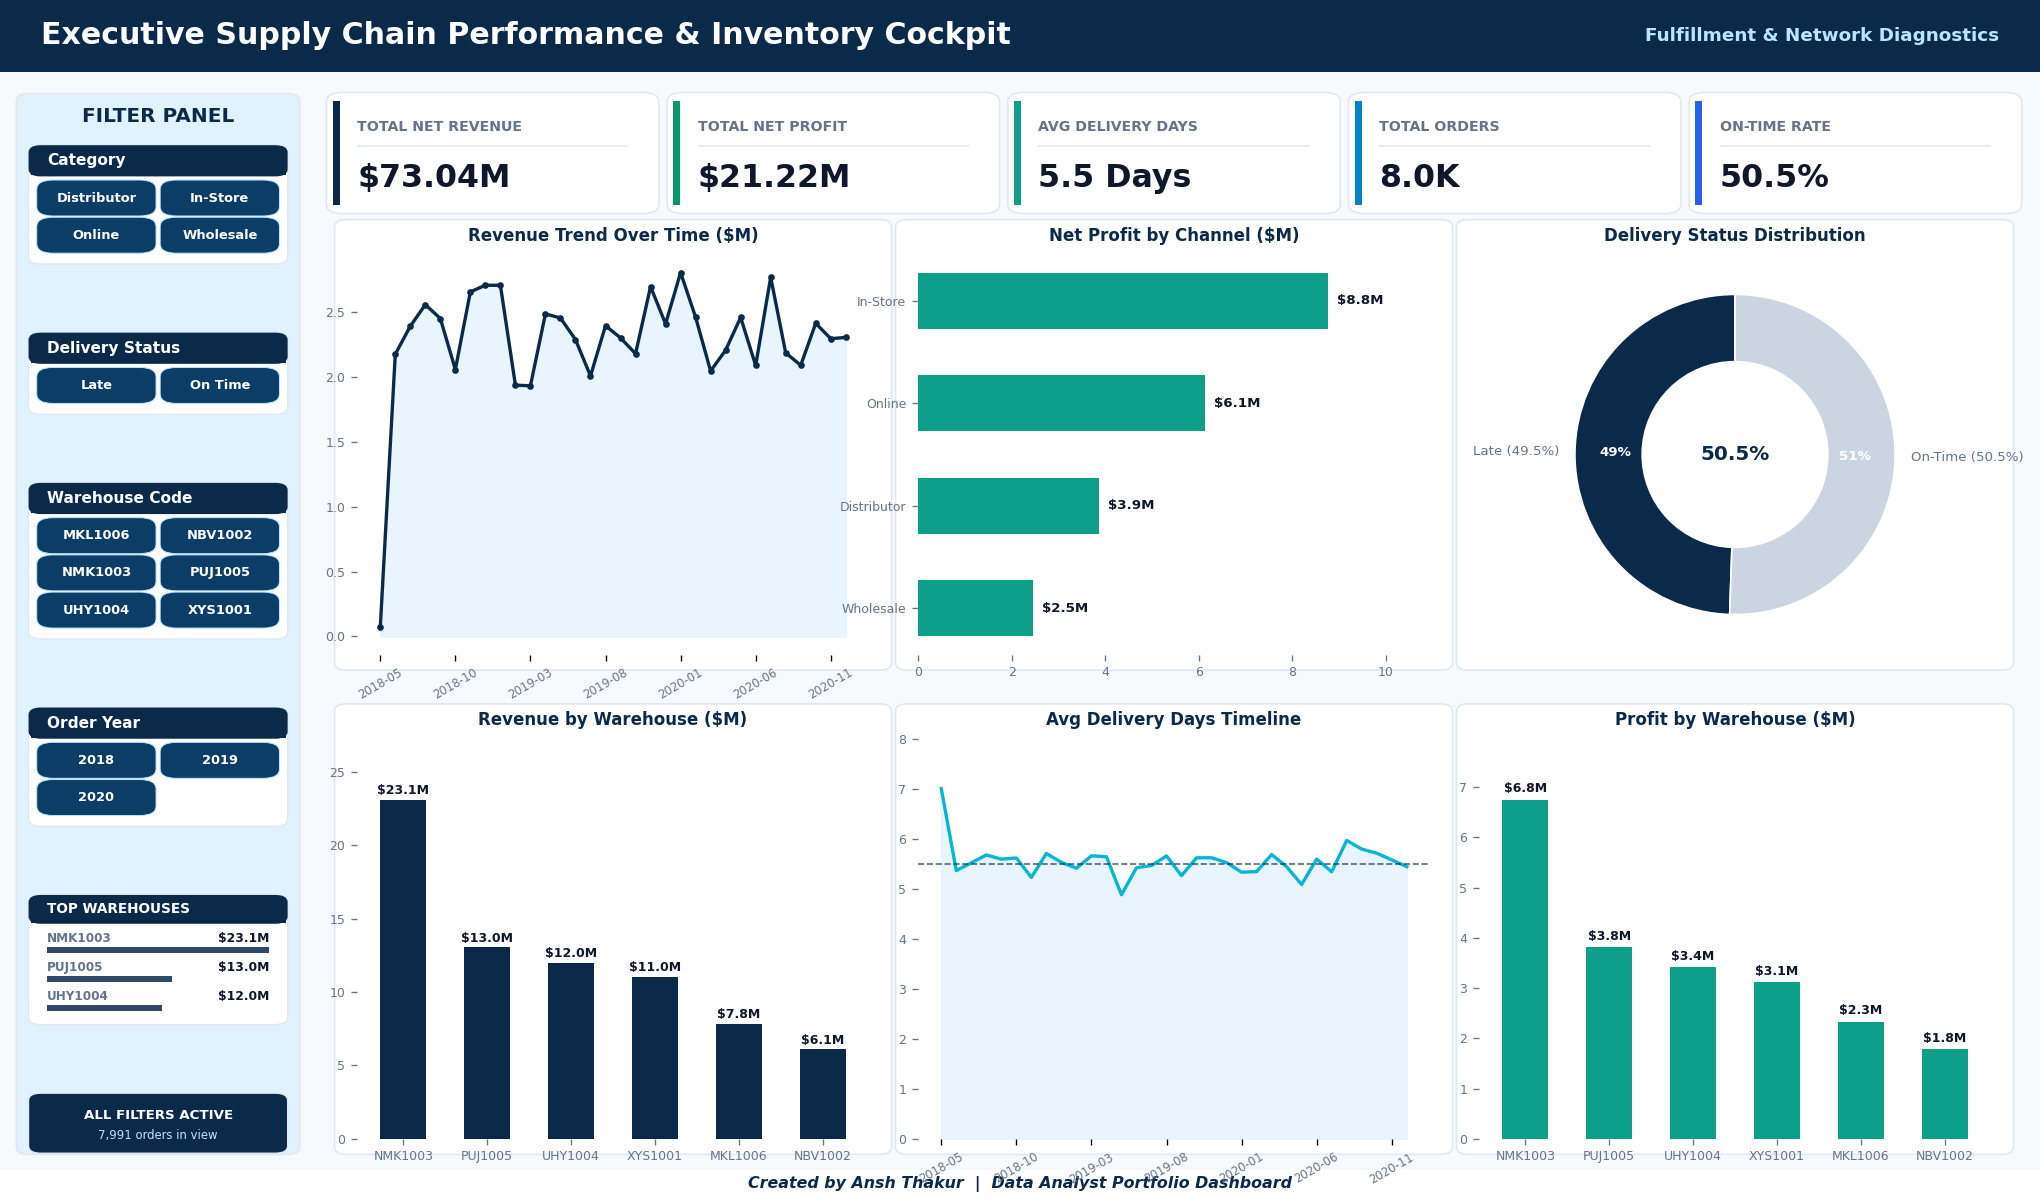
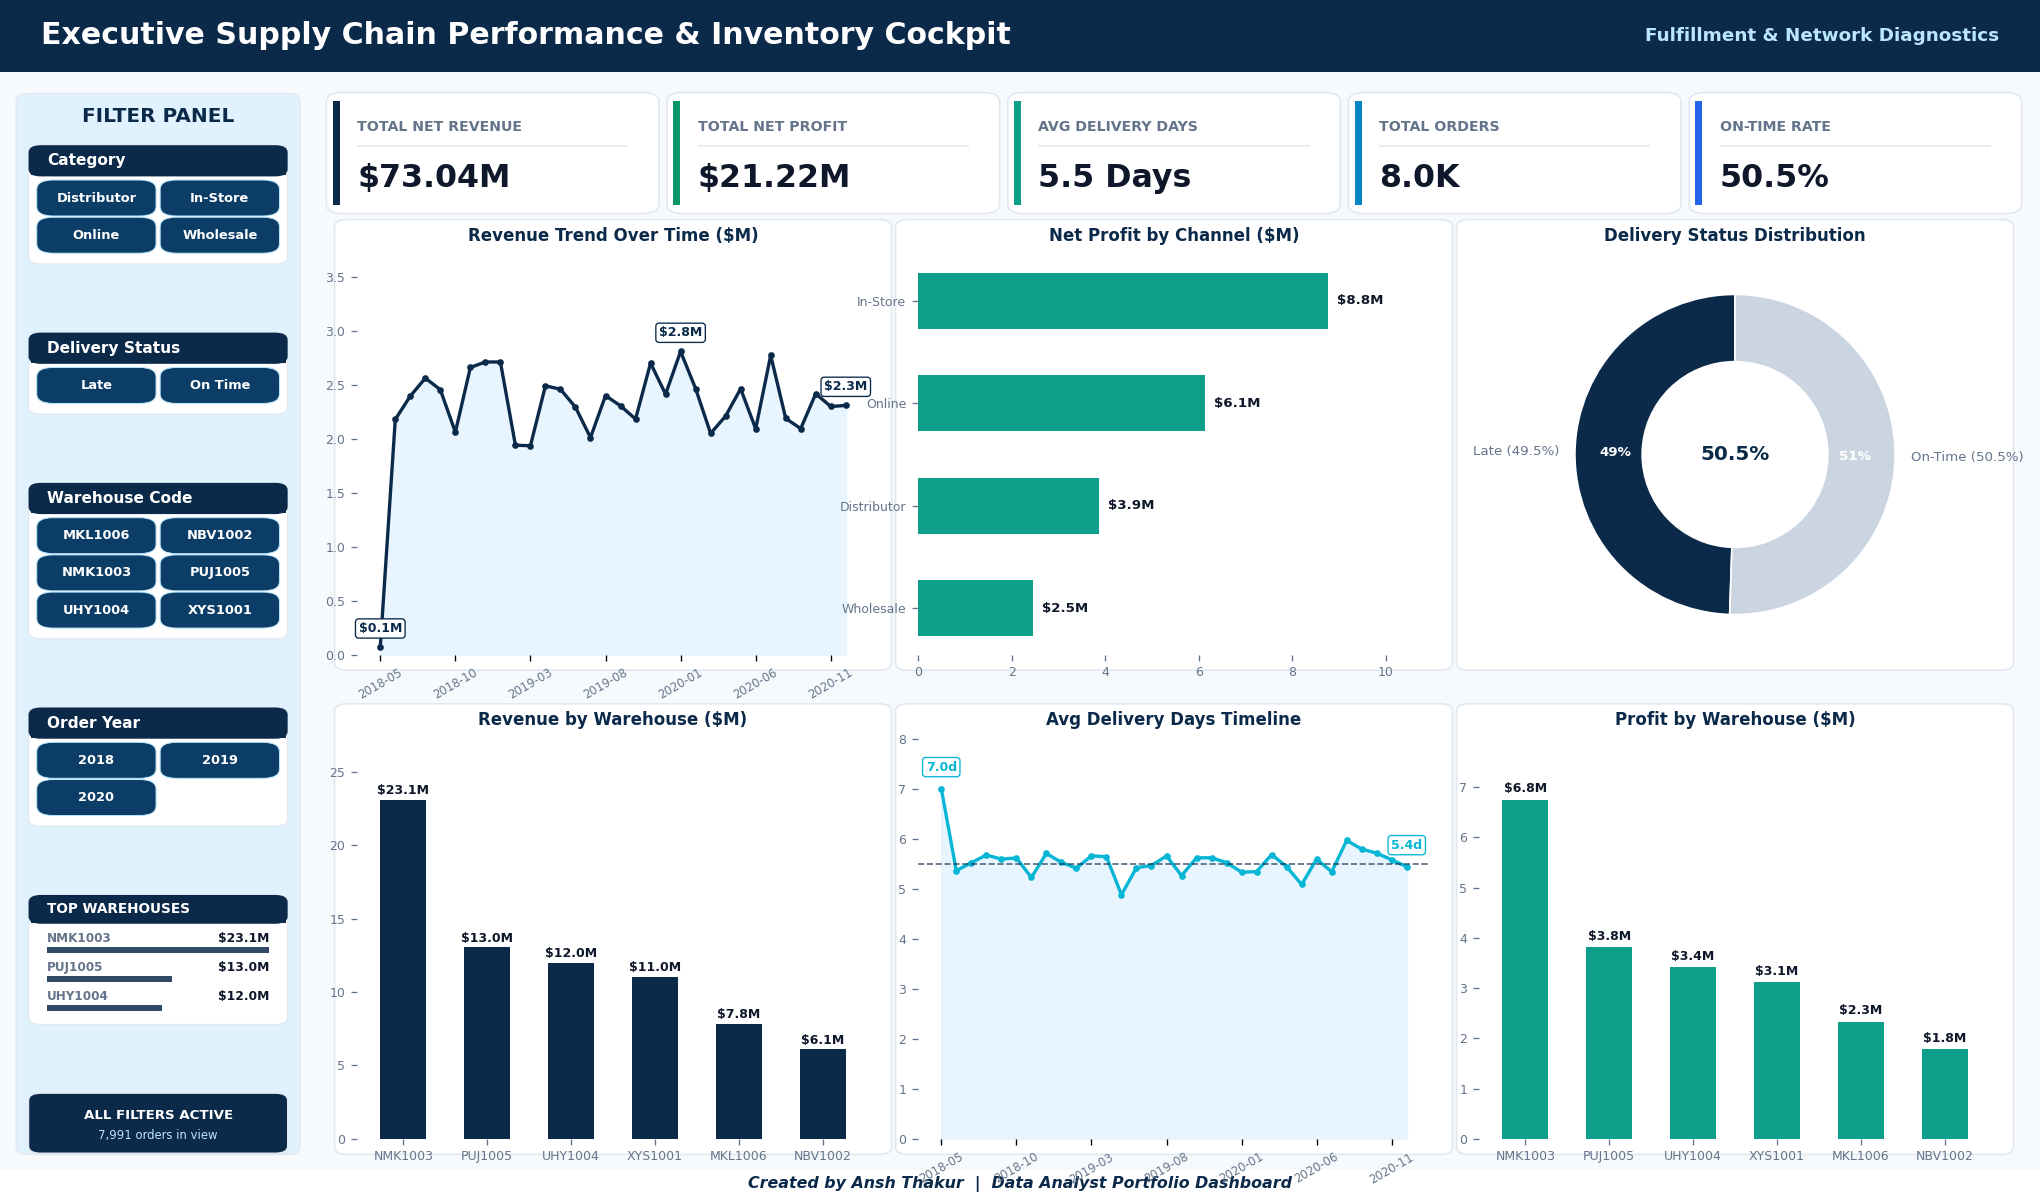
feat: boxed measurement callouts on all line charts, compact insights panel

Changed region(s): [[0.1853, 0.2158, 0.4324, 0.4317], [0.1544, 0.4933, 0.2162, 0.555], [0.6794, 0.6783, 0.7103, 0.7092]]

diff --git a/subscription-retention-analytics/src/render_dashboard_screenshot.py b/subscription-retention-analytics/src/render_dashboard_screenshot.py
@@ -68,6 +68,14 @@ def _fit_font(text, chip_w, base, fig_w_in=17.0, dpi_pts=72.0):
     return base if est_pt <= usable_pt else max(5.0, base * usable_pt / est_pt)
 
 
+def _boxed_note(cax, x, y, s, color, fontsize=7.5):
+    """Measurement callout: white box with colored edge so line-chart values
+    read as clearly as the bar labels."""
+    cax.text(x, y, s, ha="center", va="bottom", fontsize=fontsize, weight="bold",
+             color=color, bbox=dict(boxstyle="round,pad=0.25", facecolor="#FFFFFF",
+                                    edgecolor=color, linewidth=0.8))
+
+
 def _chip(ax, x, y, w, h, text, edge="#FECDD3", bg=None, base=7.6):
     ax.add_patch(FancyBboxPatch((x, y), w, h,
                                 boxstyle="round,pad=0.001,rounding_size=0.008",
@@ -262,7 +270,7 @@ def main() -> None:
     ]
     grid_x0 = kpi_x0
     grid_x1 = 1 - 0.012
-    grid_y0 = 0.36
+    grid_y0 = 0.309
     grid_y1 = 0.81
     row_gap = 0.030
     cell_w = (grid_x1 - grid_x0) / 3
@@ -346,24 +354,35 @@ def main() -> None:
         elif key == "tenure_trend":
             t = df.groupby("tenure")["ChurnFlag"].mean().mul(100)
             t = t.iloc[::3]
-            cax.plot(t.index, t.values, color=CRIMSON_MAIN, linewidth=2.2)
-            cax.fill_between(t.index, t.values, color=ROSE_LIGHT, alpha=0.7)
+            xs = t.index.values
+            ys = t.values
+            cax.plot(xs, ys, color=CRIMSON_MAIN, marker="o", markersize=3, linewidth=2.2)
+            cax.fill_between(xs, ys, color=ROSE_LIGHT, alpha=0.7)
+            cax.set_ylim(0, ys.max() * 1.28)
             cax.tick_params(axis="x", labelsize=7, colors=TEXT_MUTED)
             cax.tick_params(axis="y", labelsize=8, colors=TEXT_MUTED)
+            # measurement callouts: first month, lowest month, latest month
+            seen = set()
+            for xi, yv in ((xs[0], ys[0]), (xs[int(ys.argmin())], ys.min()), (xs[-1], ys[-1])):
+                if xi in seen:
+                    continue
+                seen.add(xi)
+                _boxed_note(cax, xi, yv + ys.max() * 0.04, f"{yv:.1f}%", CRIMSON_MAIN)
 
-    # 5. Key Findings panel (Modern white card with crimson header strip)
-    findings_top = 0.335
+    # 5. Key Findings panel (compact: smaller type + tighter leading so the
+    # charts above get the space; bottom edge stays level with the sidebar)
+    findings_top = 0.284
     # bottom edge matches the filter sidebar bottom (panel_bottom_y) for a level look
     findings_h = findings_top - panel_bottom_y
     ax.add_patch(FancyBboxPatch((kpi_x0, findings_top - findings_h), grid_x1 - kpi_x0, findings_h,
                                 boxstyle="round,pad=0.002,rounding_size=0.006",
                                 linewidth=1.0, edgecolor=BORDER_COLOR, facecolor=CARD_BG,
                                 transform=ax.transAxes))
-    ax.add_patch(Rectangle((kpi_x0, findings_top - 0.030), grid_x1 - kpi_x0, 0.030,
+    ax.add_patch(Rectangle((kpi_x0, findings_top - 0.026), grid_x1 - kpi_x0, 0.026,
                            facecolor=CRIMSON_MAIN, transform=ax.transAxes))
-    ax.text(kpi_x0 + 0.015, findings_top - 0.015,
+    ax.text(kpi_x0 + 0.015, findings_top - 0.013,
             "EXECUTIVE INSIGHTS & RETENTION ACTIONS",
-            color="#FFFFFF", fontsize=11, weight="bold",
+            color="#FFFFFF", fontsize=10, weight="bold",
             ha="left", va="center", transform=ax.transAxes)
 
     by_contract = df.groupby("Contract", observed=True)["ChurnFlag"].mean().mul(100)
@@ -380,8 +399,8 @@ def main() -> None:
         "Revenue Exposure: 72% of total dollars at risk is concentrated in Month-to-Month + Fiber Optic subscribers.",
     ]
     for i, txt in enumerate(findings):
-        y = findings_top - 0.065 - i * 0.044
-        ax.text(kpi_x0 + 0.015, y, f"â€¢  {txt}", color=TEXT_DARK, fontsize=10,
+        y = findings_top - 0.056 - i * 0.034
+        ax.text(kpi_x0 + 0.015, y, f"•  {txt}", color=TEXT_DARK, fontsize=9,
                 weight="bold", ha="left", va="center", transform=ax.transAxes)
 
     # 6. Modern Footer

diff --git a/supply-chain-performance-analysis/src/render_modern_supplychain_screenshot.py b/supply-chain-performance-analysis/src/render_modern_supplychain_screenshot.py
@@ -69,6 +69,14 @@ def _fit_font(text, chip_w, base, fig_w_in=17.0, dpi_pts=72.0):
     return base if est_pt <= usable_pt else max(5.0, base * usable_pt / est_pt)
 
 
+def _boxed_note(cax, x, y, s, color, fontsize=7.5):
+    """Measurement callout: white box with colored edge so line-chart values
+    read as clearly as the bar labels."""
+    cax.text(x, y, s, ha="center", va="bottom", fontsize=fontsize, weight="bold",
+             color=color, bbox=dict(boxstyle="round,pad=0.25", facecolor="#FFFFFF",
+                                    edgecolor=color, linewidth=0.8))
+
+
 def _chip(ax, x, y, w, h, text, edge="#BAE6FD", bg=None, base=7.8):
     ax.add_patch(FancyBboxPatch((x, y), w, h,
                                 boxstyle="round,pad=0.001,rounding_size=0.008",
@@ -290,11 +298,22 @@ def main() -> None:
 
         if i == 0: # Monthly Trend
             monthly = df.groupby("order_month")["revenue"].sum().div(1e6)
-            cax.plot(range(len(monthly)), monthly.values, color=NAVY_MAIN, marker="o", markersize=3, linewidth=2.0)
-            cax.fill_between(range(len(monthly)), monthly.values, color=SKY_LIGHT, alpha=0.7)
+            xs = list(range(len(monthly)))
+            ys = monthly.values
+            cax.plot(xs, ys, color=NAVY_MAIN, marker="o", markersize=3, linewidth=2.0)
+            cax.fill_between(xs, ys, color=SKY_LIGHT, alpha=0.7)
+            cax.set_ylim(0, ys.max() * 1.32)
             cax.set_xticks(range(0, len(monthly), 5))
             cax.set_xticklabels(monthly.index[::5], rotation=30, fontsize=7, color=TEXT_MUTED)
             cax.tick_params(axis="y", labelsize=7.5, colors=TEXT_MUTED)
+            # measurement callouts: peak, trough, latest revenue month
+            seen = set()
+            for xi in (int(ys.argmax()), int(ys.argmin()), len(ys) - 1):
+                if xi in seen:
+                    continue
+                seen.add(xi)
+                _boxed_note(cax, xs[xi], ys[xi] + ys.max() * 0.04,
+                            f"${ys[xi]:.1f}M", NAVY_MAIN)
         elif i == 1: # Profit by Channel
             chan = df.groupby("Sales_Channel")["profit"].sum().div(1e6).sort_values()
             bars = cax.barh(chan.index, chan.values, color=TEAL_ACCENT, height=0.55)
@@ -332,13 +351,21 @@ def main() -> None:
             cax.set_ylim(0, wh_rev.max() * 1.18)
         elif i == 4: # Delivery days flat line
             del_m = df.groupby("order_month")["delivery_days"].mean()
-            cax.plot(range(len(del_m)), del_m.values, color=CYAN_ACCENT, linewidth=2.0)
-            cax.fill_between(range(len(del_m)), del_m.values, color="#E0F2FE", alpha=0.7)
+            xs4 = list(range(len(del_m)))
+            ys4 = del_m.values
+            cax.plot(xs4, ys4, color=CYAN_ACCENT, marker="o", markersize=3, linewidth=2.0)
+            cax.fill_between(xs4, ys4, color="#E0F2FE", alpha=0.7)
             cax.set_ylim(0, 8)
             cax.set_xticks(range(0, len(del_m), 5))
             cax.set_xticklabels(del_m.index[::5], rotation=30, fontsize=7, color=TEXT_MUTED)
             cax.tick_params(axis="y", labelsize=7.5, colors=TEXT_MUTED)
             cax.axhline(5.5, color=NAVY_MAIN, linestyle="--", linewidth=1.0, alpha=0.7)
+            # measurement callouts: slowest month + latest month
+            imax4 = int(ys4.argmax())
+            _boxed_note(cax, xs4[imax4], ys4.max() + 0.30,
+                        f"{ys4.max():.1f}d", CYAN_ACCENT)
+            if imax4 != len(ys4) - 1:
+                _boxed_note(cax, xs4[-1], ys4[-1] + 0.30, f"{ys4[-1]:.1f}d", CYAN_ACCENT)
         elif i == 5: # Profit by Warehouse
             wh_prof = df.groupby("WarehouseCode")["profit"].sum().div(1e6).sort_values(ascending=False)
             bars = cax.bar(wh_prof.index.str.replace("WARE-", ""), wh_prof.values, color=TEAL_ACCENT, width=0.55)
